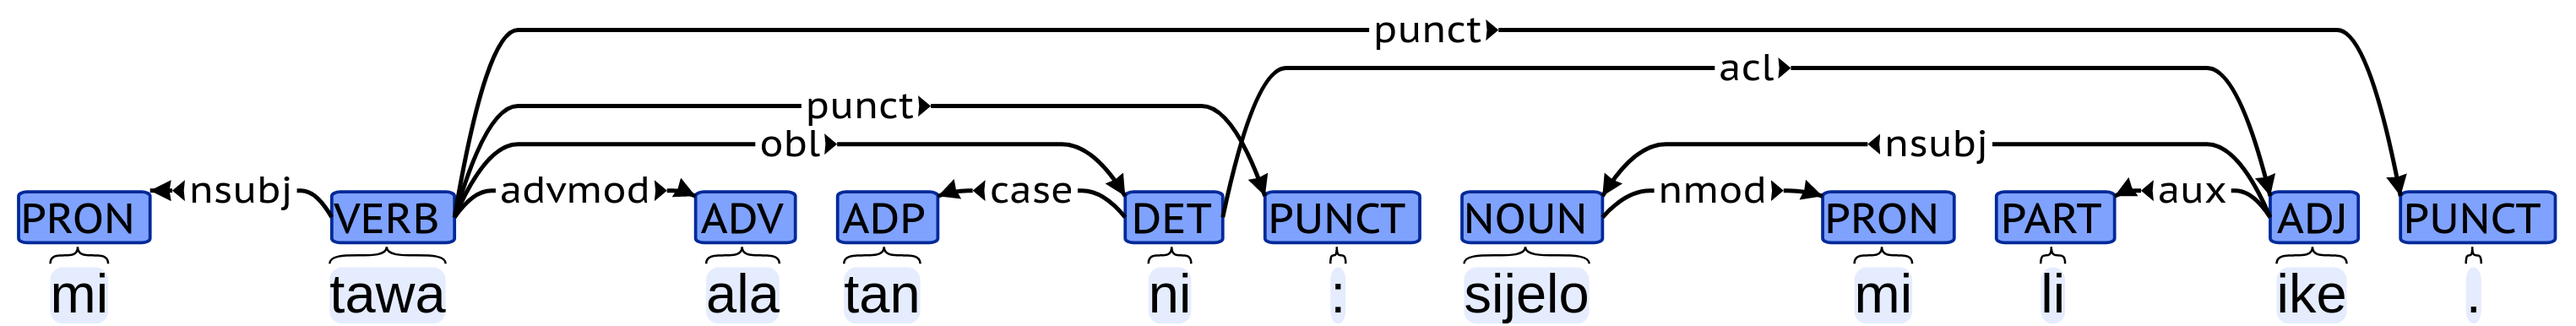
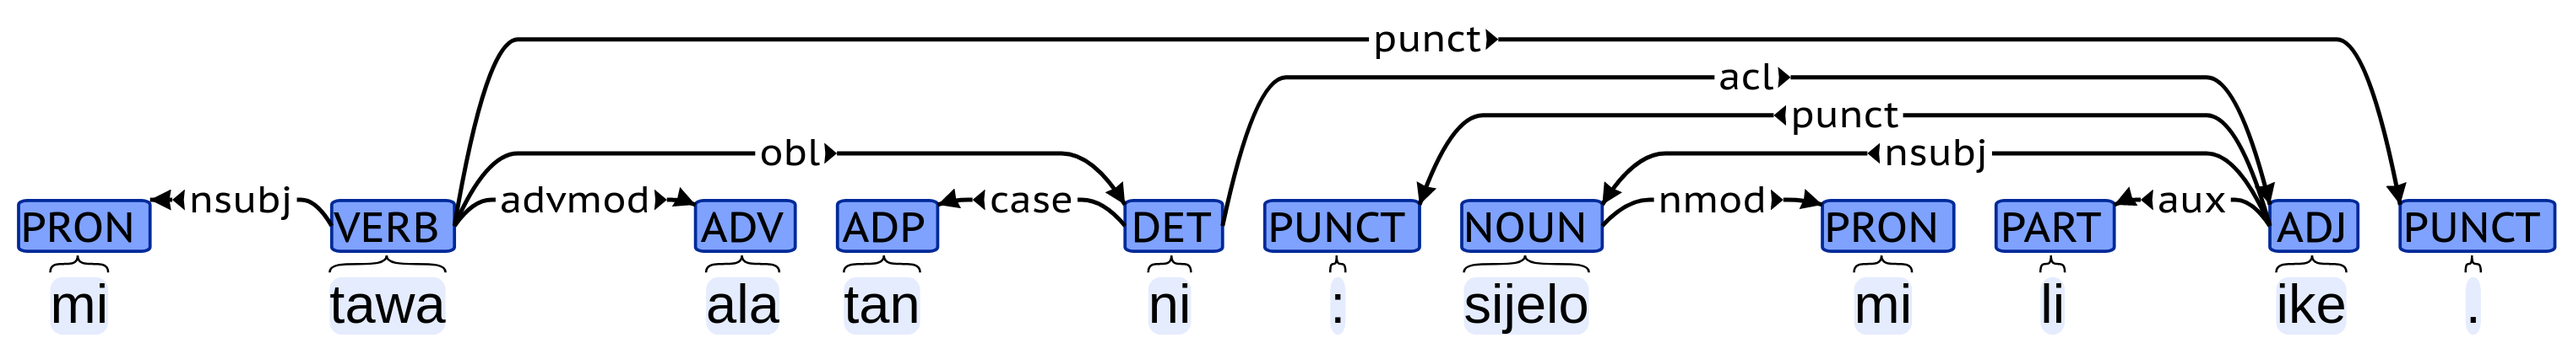
add

diff --git a/image/vis.html b/image/vis.html
@@ -431,7 +431,7 @@
 3	ala		ADV			2	advmod
 4	tan		ADP			5	case
 5	ni		DET			2	obl
-6	:		PUNCT			2	punct
+6	:		PUNCT			10	punct
 7	sijelo		NOUN			10	nsubj
 8	mi		PRON			7	nmod
 9	li		PART			10	aux
@@ -447,7 +447,7 @@
 4	ni		DET			2	obj
 5	tan		ADP			6	case
 6	lipu		NOUN			2	obl
-7	:		PUNCT			2	punct
+7	:		PUNCT			10	punct
 8	ona		PRON			10	nsubj
 9	li		PART			10	aux
 10	ike		ADJ			4	acl
